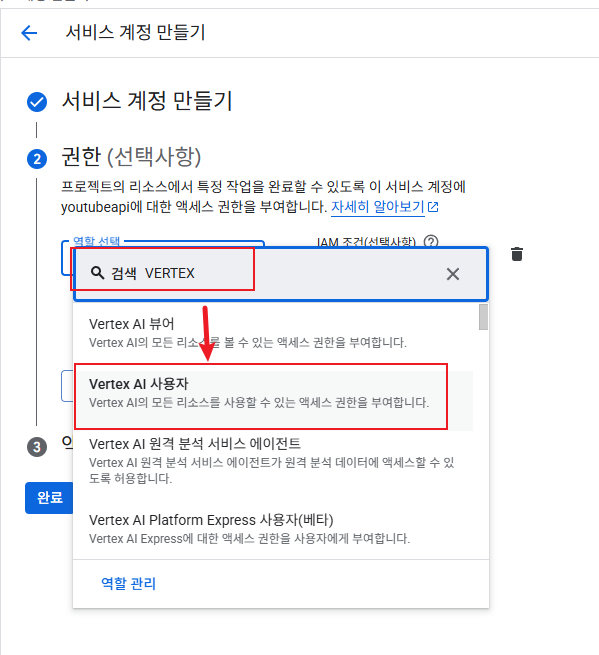
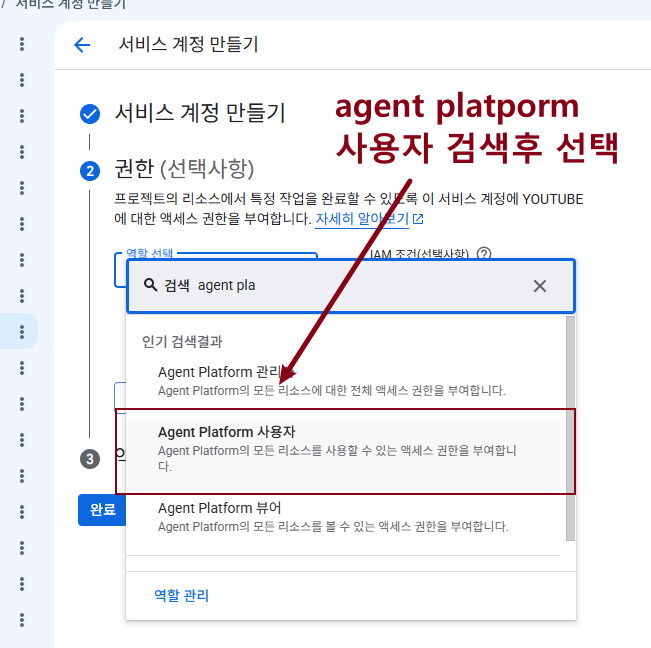
docs: 섹션 4-1 유튜브 자동화 — image22 교체 및 검색어 VERTEX→agent pla 수정, image23 원복

diff --git a/manual.html b/manual.html
@@ -165,7 +165,7 @@ p{font-size:14px;line-height:1.9;color:#ccc;margin-bottom:12px;padding:0 4px}
       canvas.height = img.naturalHeight;
       ctx.drawImage(img, 0, 0);
       var fontSize = Math.max(20, Math.floor(img.naturalWidth * 0.032));
-      var text = 'Agent Platform User 선택하세요';
+      var text = 'Agent Platform 사용자 선택하세요';
       var x = img.naturalWidth * 0.5;
       var y = Math.floor(img.naturalHeight * 0.1);
       var padX = fontSize * 0.8;
